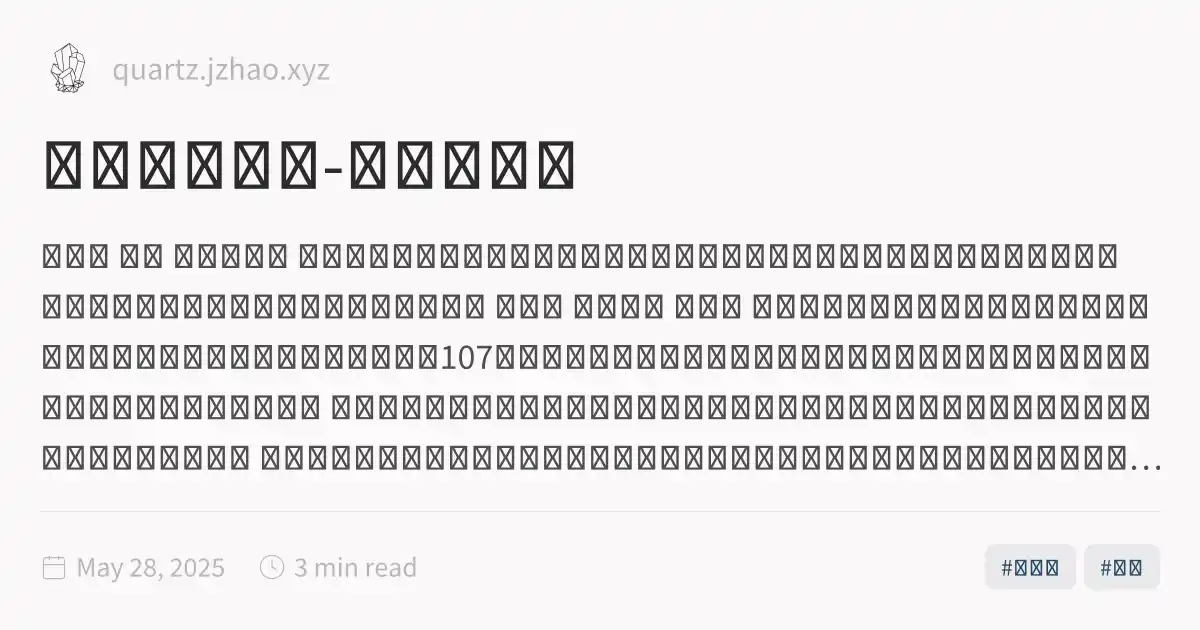
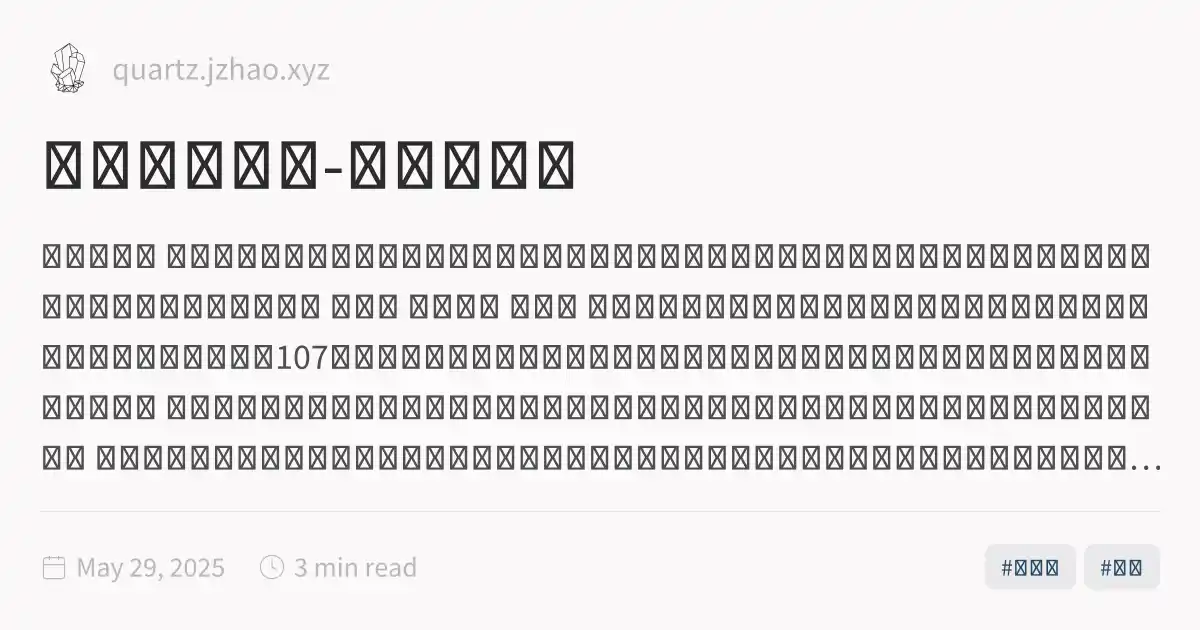
feature:update notes

diff --git a/deploy/摩托车旅行记-惠州观音山.html b/deploy/摩托车旅行记-惠州观音山.html
@@ -1,5 +1,5 @@
 <!DOCTYPE html>
-<html lang="en"><head><title>摩托车旅行记-惠州观音山</title><meta charset="utf-8"/><link rel="preconnect" href="https://fonts.googleapis.com"/><link rel="preconnect" href="https://fonts.gstatic.com"/><link rel="stylesheet" href="https://fonts.googleapis.com/css2?family=Schibsted Grotesk:wght@400;700&amp;family=Source Sans Pro:ital,wght@0,400;0,600;1,400;1,600&amp;family=IBM Plex Mono:wght@400;600&amp;display=swap"/><link rel="preconnect" href="https://cdnjs.cloudflare.com" crossorigin="anonymous"/><meta name="viewport" content="width=device-width, initial-scale=1.0"/><meta name="og:site_name" content="xiaoyili.space"/><meta property="og:title" content="摩托车旅行记-惠州观音山"/><meta property="og:type" content="website"/><meta name="twitter:card" content="summary_large_image"/><meta name="twitter:title" content="摩托车旅行记-惠州观音山"/><meta name="twitter:description" content="摩托车 旅行 这是什么？ 这是一个深圳周边很适合摩托车单日短途旅行的目的地，主题是海景、风车、海鲜。当然了，开汽车自驾也是不错的选择。 在哪里 腾讯地图 怎么去 如果是摩托车，那么请用你能想到的方法上高速，如果从深圳出发，可以考虑107国道骑行到东莞，然后从东莞长安收费站上高速。上高速以后，按照上面的地址导航即可。 下高速以前，会路过双月湾大桥，从桥上看海景也是可以用壮阔来形容的，请一定要晴天的时候去。 下高速以后，可以考虑找一个农家乐吃饭，毕竟是沿海的地方，海鲜的味道很不错，好好吃一顿饭，缓解一下长途骑行的疲劳。 从收费站到观音山下的路，会看到蓝海、农田、青山几种不同的风景，而且路况也很不错..."/><meta property="og:description" content="摩托车 旅行 这是什么？ 这是一个深圳周边很适合摩托车单日短途旅行的目的地，主题是海景、风车、海鲜。当然了，开汽车自驾也是不错的选择。 在哪里 腾讯地图 怎么去 如果是摩托车，那么请用你能想到的方法上高速，如果从深圳出发，可以考虑107国道骑行到东莞，然后从东莞长安收费站上高速。上高速以后，按照上面的地址导航即可。 下高速以前，会路过双月湾大桥，从桥上看海景也是可以用壮阔来形容的，请一定要晴天的时候去。 下高速以后，可以考虑找一个农家乐吃饭，毕竟是沿海的地方，海鲜的味道很不错，好好吃一顿饭，缓解一下长途骑行的疲劳。 从收费站到观音山下的路，会看到蓝海、农田、青山几种不同的风景，而且路况也很不错..."/><meta property="og:image:alt" content="摩托车 旅行 这是什么？ 这是一个深圳周边很适合摩托车单日短途旅行的目的地，主题是海景、风车、海鲜。当然了，开汽车自驾也是不错的选择。 在哪里 腾讯地图 怎么去 如果是摩托车，那么请用你能想到的方法上高速，如果从深圳出发，可以考虑107国道骑行到东莞，然后从东莞长安收费站上高速。上高速以后，按照上面的地址导航即可。 下高速以前，会路过双月湾大桥，从桥上看海景也是可以用壮阔来形容的，请一定要晴天的时候去。 下高速以后，可以考虑找一个农家乐吃饭，毕竟是沿海的地方，海鲜的味道很不错，好好吃一顿饭，缓解一下长途骑行的疲劳。 从收费站到观音山下的路，会看到蓝海、农田、青山几种不同的风景，而且路况也很不错..."/><meta property="twitter:domain" content="quartz.jzhao.xyz"/><meta property="og:url" content="https://quartz.jzhao.xyz/摩托车旅行记-惠州观音山"/><meta property="twitter:url" content="https://quartz.jzhao.xyz/摩托车旅行记-惠州观音山"/><link rel="icon" href="./static/icon.png"/><meta name="description" content="摩托车 旅行 这是什么？ 这是一个深圳周边很适合摩托车单日短途旅行的目的地，主题是海景、风车、海鲜。当然了，开汽车自驾也是不错的选择。 在哪里 腾讯地图 怎么去 如果是摩托车，那么请用你能想到的方法上高速，如果从深圳出发，可以考虑107国道骑行到东莞，然后从东莞长安收费站上高速。上高速以后，按照上面的地址导航即可。 下高速以前，会路过双月湾大桥，从桥上看海景也是可以用壮阔来形容的，请一定要晴天的时候去。 下高速以后，可以考虑找一个农家乐吃饭，毕竟是沿海的地方，海鲜的味道很不错，好好吃一顿饭，缓解一下长途骑行的疲劳。 从收费站到观音山下的路，会看到蓝海、农田、青山几种不同的风景，而且路况也很不错..."/><meta name="generator" content="Quartz"/><link href="./index.css" rel="stylesheet" type="text/css" spa-preserve/><style>.expand-button {
+<html lang="en"><head><title>摩托车旅行记-惠州观音山</title><meta charset="utf-8"/><link rel="preconnect" href="https://fonts.googleapis.com"/><link rel="preconnect" href="https://fonts.gstatic.com"/><link rel="stylesheet" href="https://fonts.googleapis.com/css2?family=Schibsted Grotesk:wght@400;700&amp;family=Source Sans Pro:ital,wght@0,400;0,600;1,400;1,600&amp;family=IBM Plex Mono:wght@400;600&amp;display=swap"/><link rel="preconnect" href="https://cdnjs.cloudflare.com" crossorigin="anonymous"/><meta name="viewport" content="width=device-width, initial-scale=1.0"/><meta name="og:site_name" content="xiaoyili.space"/><meta property="og:title" content="摩托车旅行记-惠州观音山"/><meta property="og:type" content="website"/><meta name="twitter:card" content="summary_large_image"/><meta name="twitter:title" content="摩托车旅行记-惠州观音山"/><meta name="twitter:description" content="这是什么？ 这是一个深圳周边很适合摩托车单日短途旅行的目的地，主题是海景、风车、海鲜。当然了，开汽车自驾也是不错的选择。 在哪里 腾讯地图 怎么去 如果是摩托车，那么请用你能想到的方法上高速，如果从深圳出发，可以考虑107国道骑行到东莞，然后从东莞长安收费站上高速。上高速以后，按照上面的地址导航即可。 下高速以前，会路过双月湾大桥，从桥上看海景也是可以用壮阔来形容的，请一定要晴天的时候去。 下高速以后，可以考虑找一个农家乐吃饭，毕竟是沿海的地方，海鲜的味道很不错，好好吃一顿饭，缓解一下长途骑行的疲劳。 从收费站到观音山下的路，会看到蓝海、农田、青山几种不同的风景，而且路况也很不错。 到山脚下以..."/><meta property="og:description" content="这是什么？ 这是一个深圳周边很适合摩托车单日短途旅行的目的地，主题是海景、风车、海鲜。当然了，开汽车自驾也是不错的选择。 在哪里 腾讯地图 怎么去 如果是摩托车，那么请用你能想到的方法上高速，如果从深圳出发，可以考虑107国道骑行到东莞，然后从东莞长安收费站上高速。上高速以后，按照上面的地址导航即可。 下高速以前，会路过双月湾大桥，从桥上看海景也是可以用壮阔来形容的，请一定要晴天的时候去。 下高速以后，可以考虑找一个农家乐吃饭，毕竟是沿海的地方，海鲜的味道很不错，好好吃一顿饭，缓解一下长途骑行的疲劳。 从收费站到观音山下的路，会看到蓝海、农田、青山几种不同的风景，而且路况也很不错。 到山脚下以..."/><meta property="og:image:alt" content="这是什么？ 这是一个深圳周边很适合摩托车单日短途旅行的目的地，主题是海景、风车、海鲜。当然了，开汽车自驾也是不错的选择。 在哪里 腾讯地图 怎么去 如果是摩托车，那么请用你能想到的方法上高速，如果从深圳出发，可以考虑107国道骑行到东莞，然后从东莞长安收费站上高速。上高速以后，按照上面的地址导航即可。 下高速以前，会路过双月湾大桥，从桥上看海景也是可以用壮阔来形容的，请一定要晴天的时候去。 下高速以后，可以考虑找一个农家乐吃饭，毕竟是沿海的地方，海鲜的味道很不错，好好吃一顿饭，缓解一下长途骑行的疲劳。 从收费站到观音山下的路，会看到蓝海、农田、青山几种不同的风景，而且路况也很不错。 到山脚下以..."/><meta property="twitter:domain" content="quartz.jzhao.xyz"/><meta property="og:url" content="https://quartz.jzhao.xyz/摩托车旅行记-惠州观音山"/><meta property="twitter:url" content="https://quartz.jzhao.xyz/摩托车旅行记-惠州观音山"/><link rel="icon" href="./static/icon.png"/><meta name="description" content="这是什么？ 这是一个深圳周边很适合摩托车单日短途旅行的目的地，主题是海景、风车、海鲜。当然了，开汽车自驾也是不错的选择。 在哪里 腾讯地图 怎么去 如果是摩托车，那么请用你能想到的方法上高速，如果从深圳出发，可以考虑107国道骑行到东莞，然后从东莞长安收费站上高速。上高速以后，按照上面的地址导航即可。 下高速以前，会路过双月湾大桥，从桥上看海景也是可以用壮阔来形容的，请一定要晴天的时候去。 下高速以后，可以考虑找一个农家乐吃饭，毕竟是沿海的地方，海鲜的味道很不错，好好吃一顿饭，缓解一下长途骑行的疲劳。 从收费站到观音山下的路，会看到蓝海、农田、青山几种不同的风景，而且路况也很不错。 到山脚下以..."/><meta name="generator" content="Quartz"/><link href="./index.css" rel="stylesheet" type="text/css" spa-preserve/><style>.expand-button {
   position: absolute;
   display: flex;
   float: right;
@@ -116,8 +116,7 @@ pre:hover > .expand-button {
   padding: 0 12px;
   font-size: 14px;
 }
[1 lines of base64/hex data omitted]
-<h1 id="这是什么">这是什么？<a role="anchor" aria-hidden="true" tabindex="-1" data-no-popover="true" href="#这是什么" class="internal"><svg width="18" height="18" viewBox="0 0 24 24" fill="none" stroke="currentColor" stroke-width="2" stroke-linecap="round" stroke-linejoin="round"><path d="M10 13a5 5 0 0 0 7.54.54l3-3a5 5 0 0 0-7.07-7.07l-1.72 1.71"></path><path d="M14 11a5 5 0 0 0-7.54-.54l-3 3a5 5 0 0 0 7.07 7.07l1.71-1.71"></path></svg></a></h1>
[1 lines of base64/hex data omitted]
 <p>这是一个深圳周边很适合摩托车单日短途旅行的目的地，主题是海景、风车、海鲜。当然了，开汽车自驾也是不错的选择。</p>
 <h1 id="在哪里">在哪里<a role="anchor" aria-hidden="true" tabindex="-1" data-no-popover="true" href="#在哪里" class="internal"><svg width="18" height="18" viewBox="0 0 24 24" fill="none" stroke="currentColor" stroke-width="2" stroke-linecap="round" stroke-linejoin="round"><path d="M10 13a5 5 0 0 0 7.54.54l3-3a5 5 0 0 0-7.07-7.07l-1.72 1.71"></path><path d="M14 11a5 5 0 0 0-7.54-.54l-3 3a5 5 0 0 0 7.07 7.07l1.71-1.71"></path></svg></a></h1>
 <p><a href="https://mmapgwh.map.qq.com/shortlink/short?l=_f559a322c03ebeafa68cadb713a2bfb7&amp;tempSource=pcMap" class="external">腾讯地图<svg aria-hidden="true" class="external-icon" style="max-width:0.8em;max-height:0.8em;" viewBox="0 0 512 512"><path d="M320 0H288V64h32 82.7L201.4 265.4 178.7 288 224 333.3l22.6-22.6L448 109.3V192v32h64V192 32 0H480 320zM32 32H0V64 480v32H32 456h32V480 352 320H424v32 96H64V96h96 32V32H160 32z"></path></svg></a></p>

diff --git a/deploy/tags/index.html b/deploy/tags/index.html
@@ -116,6 +116,6 @@ pre:hover > .expand-button {
   padding: 0 12px;
   font-size: 14px;
 }
[2 lines of base64/hex data omitted]
 </script><script type="module">function f(i,e){if(!i)return;function r(o){o.target===this&&(o.preventDefault(),o.stopPropagation(),e())}function t(o){o.key.startsWith("Esc")&&(o.preventDefault(),e())}i?.addEventListener("click",r),window.addCleanup(()=>i?.removeEventListener("click",r)),document.addEventListener("keydown",t),window.addCleanup(()=>document.removeEventListener("keydown",t))}function y(i){for(;i.firstChild;)i.removeChild(i.firstChild)}var h=class{constructor(e,r){this.container=e;this.content=r;this.setupEventListeners(),this.setupNavigationControls(),this.resetTransform()}isDragging=!1;startPan={x:0,y:0};currentPan={x:0,y:0};scale=1;MIN_SCALE=.5;MAX_SCALE=3;cleanups=[];setupEventListeners(){let e=this.onMouseDown.bind(this),r=this.onMouseMove.bind(this),t=this.onMouseUp.bind(this),o=this.resetTransform.bind(this);this.container.addEventListener("mousedown",e),document.addEventListener("mousemove",r),document.addEventListener("mouseup",t),window.addEventListener("resize",o),this.cleanups.push(()=>this.container.removeEventListener("mousedown",e),()=>document.removeEventListener("mousemove",r),()=>document.removeEventListener("mouseup",t),()=>window.removeEventListener("resize",o))}cleanup(){for(let e of this.cleanups)e()}setupNavigationControls(){let e=document.createElement("div");e.className="mermaid-controls";let r=this.createButton("+",()=>this.zoom(.1)),t=this.createButton("-",()=>this.zoom(-.1)),o=this.createButton("Reset",()=>this.resetTransform());e.appendChild(t),e.appendChild(o),e.appendChild(r),this.container.appendChild(e)}createButton(e,r){let t=document.createElement("button");return t.textContent=e,t.className="mermaid-control-button",t.addEventListener("click",r),window.addCleanup(()=>t.removeEventListener("click",r)),t}onMouseDown(e){e.button===0&&(this.isDragging=!0,this.startPan={x:e.clientX-this.currentPan.x,y:e.clientY-this.currentPan.y},this.container.style.cursor="grabbing")}onMouseMove(e){this.isDragging&&(e.preventDefault(),this.currentPan={x:e.clientX-this.startPan.x,y:e.clientY-this.startPan.y},this.updateTransform())}onMouseUp(){this.isDragging=!1,this.container.style.cursor="grab"}zoom(e){let r=Math.min(Math.max(this.scale+e,this.MIN_SCALE),this.MAX_SCALE),t=this.content.getBoundingClientRect(),o=t.width/2,n=t.height/2,c=r-this.scale;this.currentPan.x-=o*c,this.currentPan.y-=n*c,this.scale=r,this.updateTransform()}updateTransform(){this.content.style.transform=`translate(${this.currentPan.x}px, ${this.currentPan.y}px) scale(${this.scale})`}resetTransform(){this.scale=1;let e=this.content.querySelector("svg");this.currentPan={x:e.getBoundingClientRect().width/2,y:e.getBoundingClientRect().height/2},this.updateTransform()}},C=["--secondary","--tertiary","--gray","--light","--lightgray","--highlight","--dark","--darkgray","--codeFont"],E;document.addEventListener("nav",async()=>{let e=document.querySelector(".center").querySelectorAll("code.mermaid");if(e.length===0)return;E||=await import("https://cdnjs.cloudflare.com/ajax/libs/mermaid/11.4.0/mermaid.esm.min.mjs");let r=E.default,t=new WeakMap;for(let n of e)t.set(n,n.innerText);async function o(){for(let s of e){s.removeAttribute("data-processed");let a=t.get(s);a&&(s.innerHTML=a)}let n=C.reduce((s,a)=>(s[a]=window.getComputedStyle(document.documentElement).getPropertyValue(a),s),{}),c=document.documentElement.getAttribute("saved-theme")==="dark";r.initialize({startOnLoad:!1,securityLevel:"loose",theme:c?"dark":"base",themeVariables:{fontFamily:n["--codeFont"],primaryColor:n["--light"],primaryTextColor:n["--darkgray"],primaryBorderColor:n["--tertiary"],lineColor:n["--darkgray"],secondaryColor:n["--secondary"],tertiaryColor:n["--tertiary"],clusterBkg:n["--light"],edgeLabelBackground:n["--highlight"]}}),await r.run({nodes:e})}await o(),document.addEventListener("themechange",o),window.addCleanup(()=>document.removeEventListener("themechange",o));for(let n=0;n<e.length;n++){let v=function(){let g=l.querySelector("#mermaid-space"),m=l.querySelector(".mermaid-content");if(!m)return;y(m);let w=c.querySelector("svg").cloneNode(!0);m.appendChild(w),l.classList.add("active"),g.style.cursor="grab",u=new h(g,m)},M=function(){l.classList.remove("active"),u?.cleanup(),u=null},c=e[n],s=c.parentElement,a=s.querySelector(".clipboard-button"),d=s.querySelector(".expand-button"),p=window.getComputedStyle(a),L=a.offsetWidth+parseFloat(p.marginLeft||"0")+parseFloat(p.marginRight||"0");d.style.right=`calc(${L}px + 0.3rem)`,s.prepend(d);let l=s.querySelector("#mermaid-container");if(!l)return;let u=null;d.addEventListener("click",v),f(l,M),window.addCleanup(()=>{u?.cleanup(),d.removeEventListener("click",v)})}});
 </script><script src="https://cdn.jsdelivr.net/npm/katex@0.16.11/dist/contrib/copy-tex.min.js" type="application/javascript"></script><script src="../postscript.js" type="module"></script></html>

diff --git a/deploy/tags/摩托车.html b/deploy/tags/摩托车.html
@@ -116,6 +116,6 @@ pre:hover > .expand-button {
   padding: 0 12px;
   font-size: 14px;
 }
[2 lines of base64/hex data omitted]
 </script><script type="module">function f(i,e){if(!i)return;function r(o){o.target===this&&(o.preventDefault(),o.stopPropagation(),e())}function t(o){o.key.startsWith("Esc")&&(o.preventDefault(),e())}i?.addEventListener("click",r),window.addCleanup(()=>i?.removeEventListener("click",r)),document.addEventListener("keydown",t),window.addCleanup(()=>document.removeEventListener("keydown",t))}function y(i){for(;i.firstChild;)i.removeChild(i.firstChild)}var h=class{constructor(e,r){this.container=e;this.content=r;this.setupEventListeners(),this.setupNavigationControls(),this.resetTransform()}isDragging=!1;startPan={x:0,y:0};currentPan={x:0,y:0};scale=1;MIN_SCALE=.5;MAX_SCALE=3;cleanups=[];setupEventListeners(){let e=this.onMouseDown.bind(this),r=this.onMouseMove.bind(this),t=this.onMouseUp.bind(this),o=this.resetTransform.bind(this);this.container.addEventListener("mousedown",e),document.addEventListener("mousemove",r),document.addEventListener("mouseup",t),window.addEventListener("resize",o),this.cleanups.push(()=>this.container.removeEventListener("mousedown",e),()=>document.removeEventListener("mousemove",r),()=>document.removeEventListener("mouseup",t),()=>window.removeEventListener("resize",o))}cleanup(){for(let e of this.cleanups)e()}setupNavigationControls(){let e=document.createElement("div");e.className="mermaid-controls";let r=this.createButton("+",()=>this.zoom(.1)),t=this.createButton("-",()=>this.zoom(-.1)),o=this.createButton("Reset",()=>this.resetTransform());e.appendChild(t),e.appendChild(o),e.appendChild(r),this.container.appendChild(e)}createButton(e,r){let t=document.createElement("button");return t.textContent=e,t.className="mermaid-control-button",t.addEventListener("click",r),window.addCleanup(()=>t.removeEventListener("click",r)),t}onMouseDown(e){e.button===0&&(this.isDragging=!0,this.startPan={x:e.clientX-this.currentPan.x,y:e.clientY-this.currentPan.y},this.container.style.cursor="grabbing")}onMouseMove(e){this.isDragging&&(e.preventDefault(),this.currentPan={x:e.clientX-this.startPan.x,y:e.clientY-this.startPan.y},this.updateTransform())}onMouseUp(){this.isDragging=!1,this.container.style.cursor="grab"}zoom(e){let r=Math.min(Math.max(this.scale+e,this.MIN_SCALE),this.MAX_SCALE),t=this.content.getBoundingClientRect(),o=t.width/2,n=t.height/2,c=r-this.scale;this.currentPan.x-=o*c,this.currentPan.y-=n*c,this.scale=r,this.updateTransform()}updateTransform(){this.content.style.transform=`translate(${this.currentPan.x}px, ${this.currentPan.y}px) scale(${this.scale})`}resetTransform(){this.scale=1;let e=this.content.querySelector("svg");this.currentPan={x:e.getBoundingClientRect().width/2,y:e.getBoundingClientRect().height/2},this.updateTransform()}},C=["--secondary","--tertiary","--gray","--light","--lightgray","--highlight","--dark","--darkgray","--codeFont"],E;document.addEventListener("nav",async()=>{let e=document.querySelector(".center").querySelectorAll("code.mermaid");if(e.length===0)return;E||=await import("https://cdnjs.cloudflare.com/ajax/libs/mermaid/11.4.0/mermaid.esm.min.mjs");let r=E.default,t=new WeakMap;for(let n of e)t.set(n,n.innerText);async function o(){for(let s of e){s.removeAttribute("data-processed");let a=t.get(s);a&&(s.innerHTML=a)}let n=C.reduce((s,a)=>(s[a]=window.getComputedStyle(document.documentElement).getPropertyValue(a),s),{}),c=document.documentElement.getAttribute("saved-theme")==="dark";r.initialize({startOnLoad:!1,securityLevel:"loose",theme:c?"dark":"base",themeVariables:{fontFamily:n["--codeFont"],primaryColor:n["--light"],primaryTextColor:n["--darkgray"],primaryBorderColor:n["--tertiary"],lineColor:n["--darkgray"],secondaryColor:n["--secondary"],tertiaryColor:n["--tertiary"],clusterBkg:n["--light"],edgeLabelBackground:n["--highlight"]}}),await r.run({nodes:e})}await o(),document.addEventListener("themechange",o),window.addCleanup(()=>document.removeEventListener("themechange",o));for(let n=0;n<e.length;n++){let v=function(){let g=l.querySelector("#mermaid-space"),m=l.querySelector(".mermaid-content");if(!m)return;y(m);let w=c.querySelector("svg").cloneNode(!0);m.appendChild(w),l.classList.add("active"),g.style.cursor="grab",u=new h(g,m)},M=function(){l.classList.remove("active"),u?.cleanup(),u=null},c=e[n],s=c.parentElement,a=s.querySelector(".clipboard-button"),d=s.querySelector(".expand-button"),p=window.getComputedStyle(a),L=a.offsetWidth+parseFloat(p.marginLeft||"0")+parseFloat(p.marginRight||"0");d.style.right=`calc(${L}px + 0.3rem)`,s.prepend(d);let l=s.querySelector("#mermaid-container");if(!l)return;let u=null;d.addEventListener("click",v),f(l,M),window.addCleanup(()=>{u?.cleanup(),d.removeEventListener("click",v)})}});
 </script><script src="https://cdn.jsdelivr.net/npm/katex@0.16.11/dist/contrib/copy-tex.min.js" type="application/javascript"></script><script src="../postscript.js" type="module"></script></html>

diff --git a/deploy/tags/旅行.html b/deploy/tags/旅行.html
@@ -116,6 +116,6 @@ pre:hover > .expand-button {
   padding: 0 12px;
   font-size: 14px;
 }
[2 lines of base64/hex data omitted]
 </script><script type="module">function f(i,e){if(!i)return;function r(o){o.target===this&&(o.preventDefault(),o.stopPropagation(),e())}function t(o){o.key.startsWith("Esc")&&(o.preventDefault(),e())}i?.addEventListener("click",r),window.addCleanup(()=>i?.removeEventListener("click",r)),document.addEventListener("keydown",t),window.addCleanup(()=>document.removeEventListener("keydown",t))}function y(i){for(;i.firstChild;)i.removeChild(i.firstChild)}var h=class{constructor(e,r){this.container=e;this.content=r;this.setupEventListeners(),this.setupNavigationControls(),this.resetTransform()}isDragging=!1;startPan={x:0,y:0};currentPan={x:0,y:0};scale=1;MIN_SCALE=.5;MAX_SCALE=3;cleanups=[];setupEventListeners(){let e=this.onMouseDown.bind(this),r=this.onMouseMove.bind(this),t=this.onMouseUp.bind(this),o=this.resetTransform.bind(this);this.container.addEventListener("mousedown",e),document.addEventListener("mousemove",r),document.addEventListener("mouseup",t),window.addEventListener("resize",o),this.cleanups.push(()=>this.container.removeEventListener("mousedown",e),()=>document.removeEventListener("mousemove",r),()=>document.removeEventListener("mouseup",t),()=>window.removeEventListener("resize",o))}cleanup(){for(let e of this.cleanups)e()}setupNavigationControls(){let e=document.createElement("div");e.className="mermaid-controls";let r=this.createButton("+",()=>this.zoom(.1)),t=this.createButton("-",()=>this.zoom(-.1)),o=this.createButton("Reset",()=>this.resetTransform());e.appendChild(t),e.appendChild(o),e.appendChild(r),this.container.appendChild(e)}createButton(e,r){let t=document.createElement("button");return t.textContent=e,t.className="mermaid-control-button",t.addEventListener("click",r),window.addCleanup(()=>t.removeEventListener("click",r)),t}onMouseDown(e){e.button===0&&(this.isDragging=!0,this.startPan={x:e.clientX-this.currentPan.x,y:e.clientY-this.currentPan.y},this.container.style.cursor="grabbing")}onMouseMove(e){this.isDragging&&(e.preventDefault(),this.currentPan={x:e.clientX-this.startPan.x,y:e.clientY-this.startPan.y},this.updateTransform())}onMouseUp(){this.isDragging=!1,this.container.style.cursor="grab"}zoom(e){let r=Math.min(Math.max(this.scale+e,this.MIN_SCALE),this.MAX_SCALE),t=this.content.getBoundingClientRect(),o=t.width/2,n=t.height/2,c=r-this.scale;this.currentPan.x-=o*c,this.currentPan.y-=n*c,this.scale=r,this.updateTransform()}updateTransform(){this.content.style.transform=`translate(${this.currentPan.x}px, ${this.currentPan.y}px) scale(${this.scale})`}resetTransform(){this.scale=1;let e=this.content.querySelector("svg");this.currentPan={x:e.getBoundingClientRect().width/2,y:e.getBoundingClientRect().height/2},this.updateTransform()}},C=["--secondary","--tertiary","--gray","--light","--lightgray","--highlight","--dark","--darkgray","--codeFont"],E;document.addEventListener("nav",async()=>{let e=document.querySelector(".center").querySelectorAll("code.mermaid");if(e.length===0)return;E||=await import("https://cdnjs.cloudflare.com/ajax/libs/mermaid/11.4.0/mermaid.esm.min.mjs");let r=E.default,t=new WeakMap;for(let n of e)t.set(n,n.innerText);async function o(){for(let s of e){s.removeAttribute("data-processed");let a=t.get(s);a&&(s.innerHTML=a)}let n=C.reduce((s,a)=>(s[a]=window.getComputedStyle(document.documentElement).getPropertyValue(a),s),{}),c=document.documentElement.getAttribute("saved-theme")==="dark";r.initialize({startOnLoad:!1,securityLevel:"loose",theme:c?"dark":"base",themeVariables:{fontFamily:n["--codeFont"],primaryColor:n["--light"],primaryTextColor:n["--darkgray"],primaryBorderColor:n["--tertiary"],lineColor:n["--darkgray"],secondaryColor:n["--secondary"],tertiaryColor:n["--tertiary"],clusterBkg:n["--light"],edgeLabelBackground:n["--highlight"]}}),await r.run({nodes:e})}await o(),document.addEventListener("themechange",o),window.addCleanup(()=>document.removeEventListener("themechange",o));for(let n=0;n<e.length;n++){let v=function(){let g=l.querySelector("#mermaid-space"),m=l.querySelector(".mermaid-content");if(!m)return;y(m);let w=c.querySelector("svg").cloneNode(!0);m.appendChild(w),l.classList.add("active"),g.style.cursor="grab",u=new h(g,m)},M=function(){l.classList.remove("active"),u?.cleanup(),u=null},c=e[n],s=c.parentElement,a=s.querySelector(".clipboard-button"),d=s.querySelector(".expand-button"),p=window.getComputedStyle(a),L=a.offsetWidth+parseFloat(p.marginLeft||"0")+parseFloat(p.marginRight||"0");d.style.right=`calc(${L}px + 0.3rem)`,s.prepend(d);let l=s.querySelector("#mermaid-container");if(!l)return;let u=null;d.addEventListener("click",v),f(l,M),window.addCleanup(()=>{u?.cleanup(),d.removeEventListener("click",v)})}});
 </script><script src="https://cdn.jsdelivr.net/npm/katex@0.16.11/dist/contrib/copy-tex.min.js" type="application/javascript"></script><script src="../postscript.js" type="module"></script></html>
